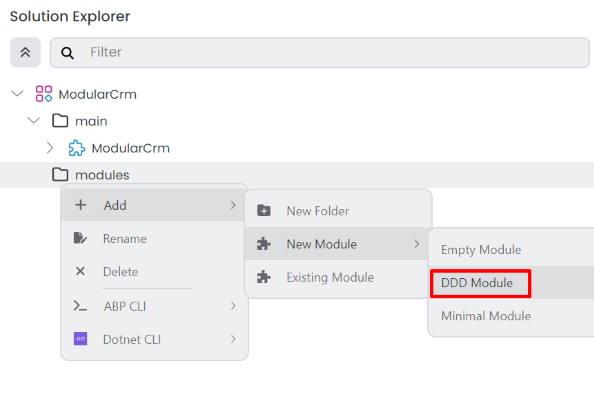
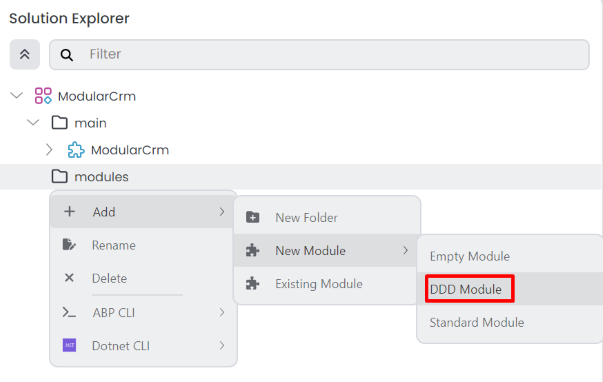
Refactor module creation dialog in ABP Studio for modular crm tutorial

diff --git a/docs/en/tutorials/modular-crm/part-04.md b/docs/en/tutorials/modular-crm/part-04.md
@@ -16,25 +16,41 @@
 
 In this part, you will build a new module for placing orders and install it in the main CRM application.
 
-## Creating an Empty Module
+## Creating a Standard Module
 
-In this part, we have used the *DDD Module* template for the Product module and will use the *Empty Module* template for the Ordering module.
+In this part, we have used the *DDD Module* template for the Product module and will use the *Standard Module* template for the Ordering module.
 
-Right-click the `modules` folder on the *Solution Explorer* panel, and select the *Add* -> *New Module* -> *Empty Module* command:
+Right-click the `modules` folder on the *Solution Explorer* panel, and select the *Add* -> *New Module* -> *Standard Module* command:
 
-![abp-studio-add-new-empty-module](images/abp-studio-add-new-empty-module.png)
+![abp-studio-add-new-standard-module](images/abp-studio-add-new-standard-module.png)
 
 That command opens a dialog to define the properties of the new module:
 
-![abp-studio-add-new-empty-module-dialog](images/abp-studio-add-new-empty-module-dialog.png)
+![abp-studio-add-new-standard-module-dialog](images/abp-studio-add-new-standard-module-dialog.png)
 
-Set `ModularCrm.Ordering` as the *Module name*, leave the *Output folder* as is and click the *Create* button. It will create the new `ModularCrm.Ordering` module under the `modules` folder in the *Solution Explorer*:
+Set `ModularCrm.Ordering` as the *Module name*, leave the *Output folder* as is and click the *Next* button.
 
-![abp-studio-modular-crm-with-two-modules](images/abp-studio-modular-crm-with-two-modules.png)
+![abp-studio-add-new-standard-module-ui-dialog](images/abp-studio-add-new-standard-module-ui-dialog.png)
 
-Since we've created an empty module, it is really empty. If you open the `modules/modularcrm.ordering` in your file system, you can see the initial files:
+Similar to DDD module creation, you can choose the type of UI you want to support in your module or select *No UI* if you don't need a user interface. In this example, we'll select the *MVC* option and click *Next*. One difference is that, for a standard module, you can only choose one UI type.
 
-![file-system-odering-module-initial-folder](images/file-system-odering-module-initial-folder.png)
+![abp-studio-add-new-standard-module-db-dialog](images/abp-studio-add-new-standard-module-db-dialog.png)
+
+The same limitation applies to the database selection. You can only choose one database provider for a standard module. Select the *Entity Framework Core* option and click *Next*.
+
+![abp-studio-add-new-standard-module-additional-dialog](images/abp-studio-add-new-standard-module-additional-dialog.png)
+
+You can uncheck the *Include Tests* option to keep the module simple. Click the *Create* button to create the module.
+
+![abp-studio-modular-crm-with-standard-module](images/abp-studio-modular-crm-with-standard-module.png)
+
+Since we've created a standard module, it doesn't have multiple layers like the DDD module. If you open the `modules/modularcrm.ordering` in your file system, you can see the initial files:
+
+![file-system-odering-module-initial-folder](images/file-system-ordering-module-initial-folder.png)
+
+Since only one UI package can be selected, the UI type doesn’t matter. This is why the package name is changed to *ModuleCrm.Ordering.UI*. Additionally, there are no *Domain*, *EntityFrameworkCore*, or *Http* layers like in the DDD module. We're going to use the `ModularCrm.Ordering` package for the domain business logic. You can open `ModularCrm.Ordering.sln` in your favorite IDE (e.g. Visual Studio):
+
+![ordering-module-visual-studio](images/ordering-module-visual-studio.png)
 
 ## Creating the Module Packages
 
